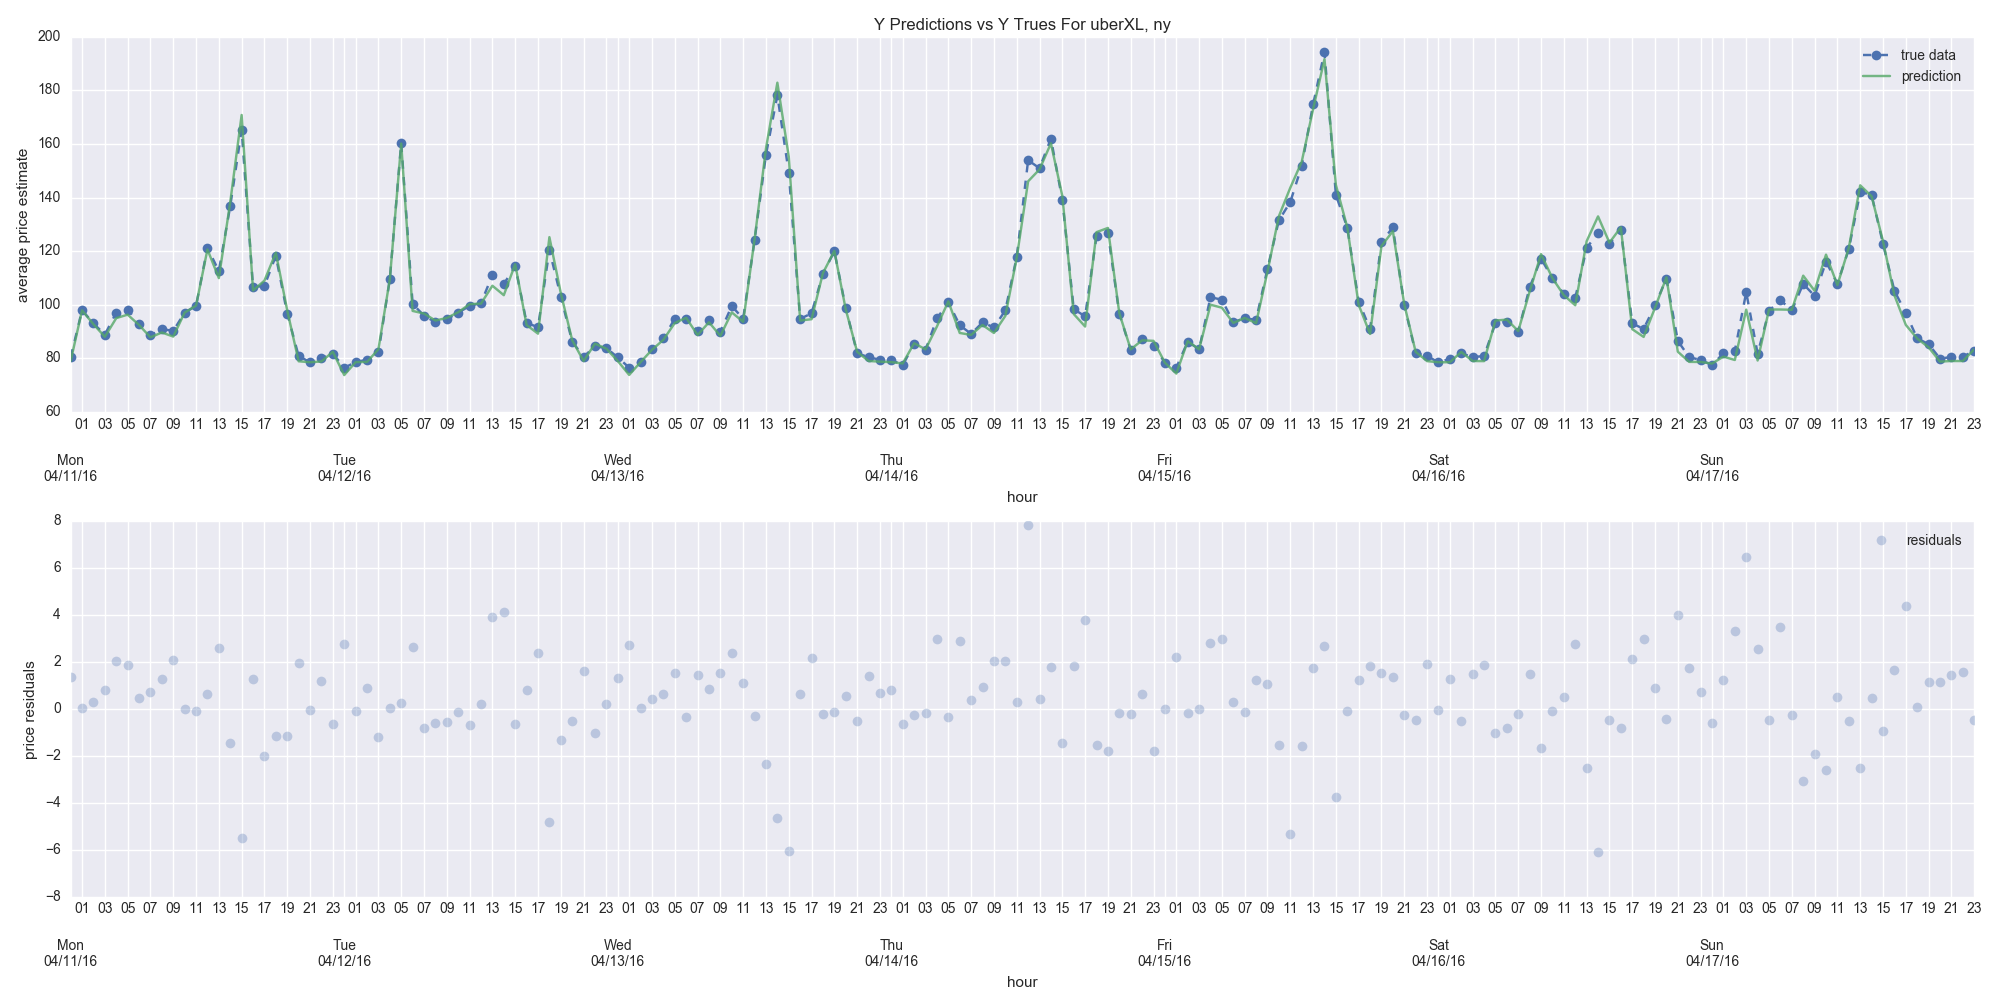
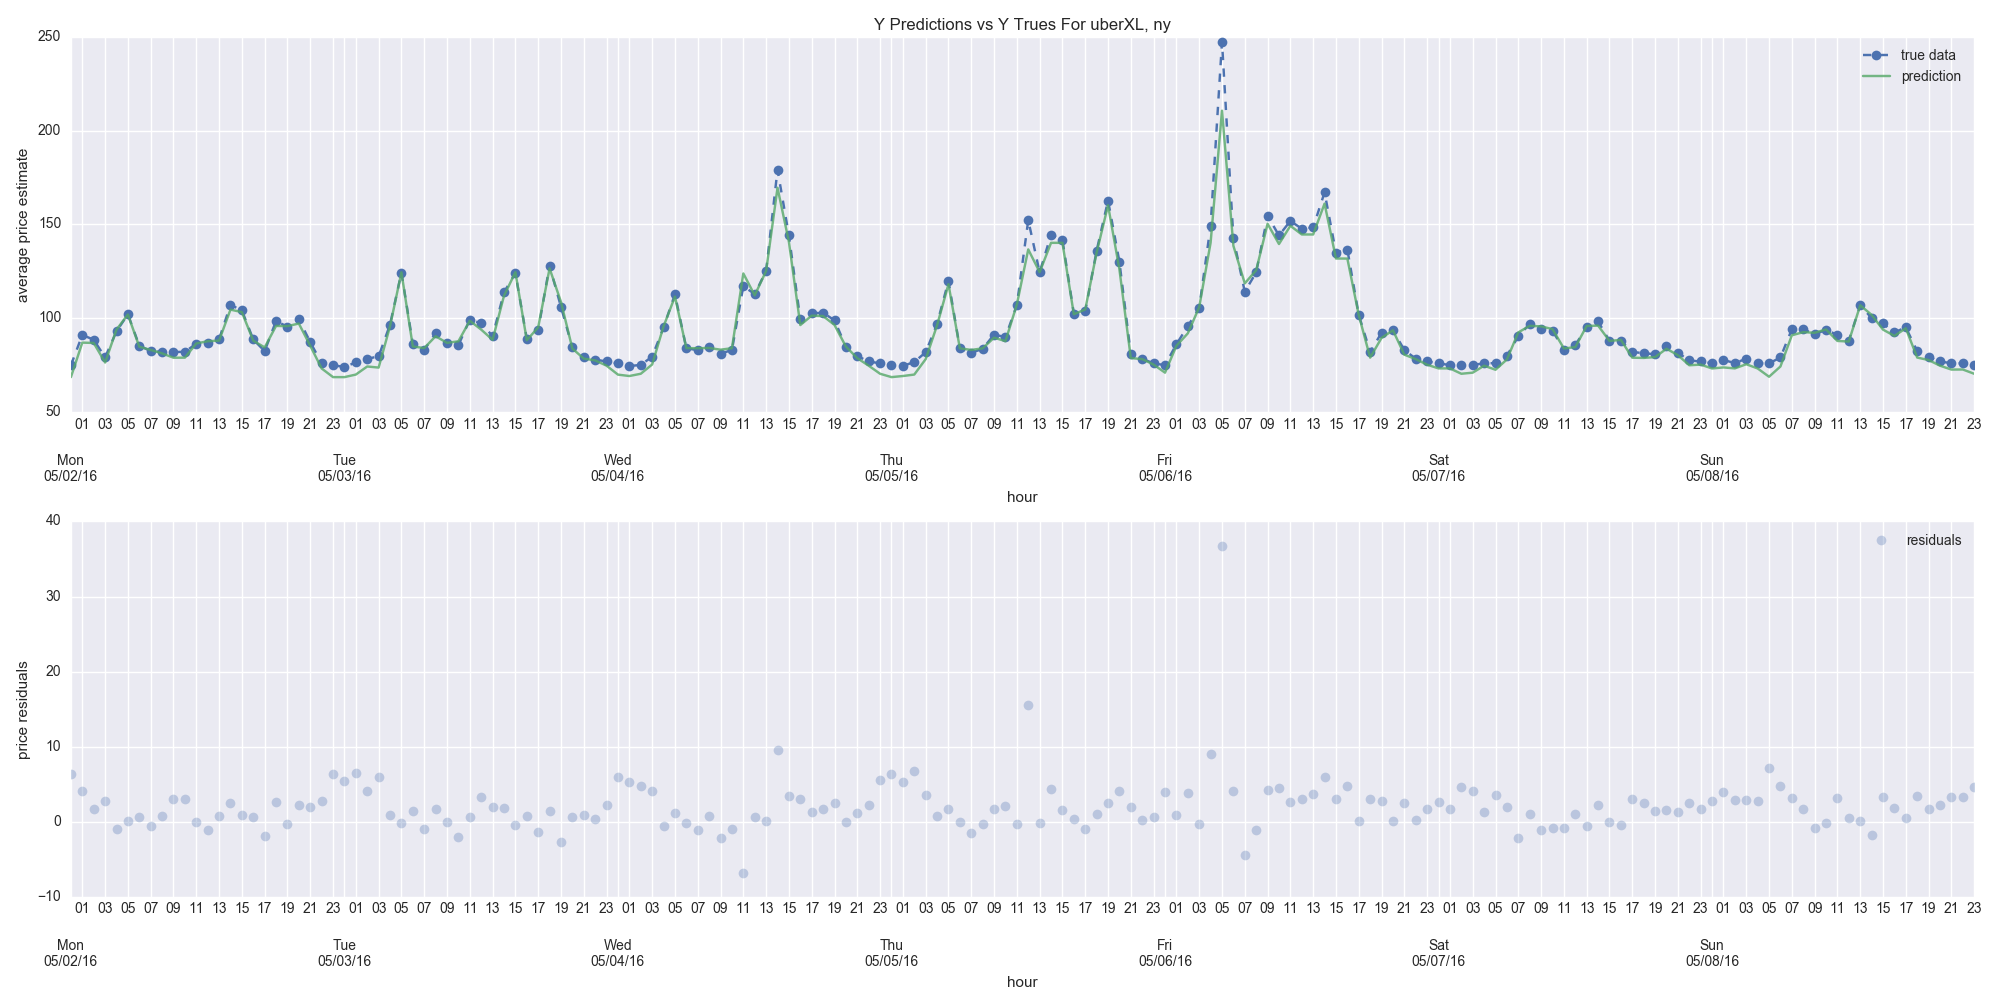
updated forecast models to reflect week of may 09

diff --git a/uber_model.py b/uber_model.py
@@ -14,6 +14,7 @@ from sklearn.linear_model import RidgeCV, LassoCV, ElasticNetCV, Ridge, Lasso, E
 import rpy2.robjects as robjects
 import rpy2.robjects.packages as rpackages
 rforecast = rpackages.importr('forecast')
+import sys
 
 class UberModel(object):
     """
@@ -383,7 +384,7 @@ def plot_prediction_true_res(y_pred):
             plt.close('all')
 
 if __name__ == '__main__':
-    filename = 'data/organized_uber_41816.csv'
+    filename = sys.argv[1]  # 'data/organized_uber_41816.csv'
     ubm = UberModel(filename)
 
     # Subsetting by week -> array([ 7,  8,  9, 10, 11, 12, 13], dtype=int32)
@@ -398,31 +399,33 @@ if __name__ == '__main__':
     y_hold.pop('record_time')
 
     ### GridSearchCV for best parameters for RF
-    # rf_params = {'n_estimators': [10, 100, 200],
-    #                         'criterion': ['mse'],
-    #                         'min_samples_split': [2, 4, 6, 7],
-    #                         'min_samples_leaf': [1, 2],
-    #                         'max_features': ['sqrt',None,'log2']}
-    # gridsearch, best_model, y_pred = ubm.perform_grid_search(X_train, X_hold, y_train.values.reshape(-1), y_hold.values.reshape(-1), RandomForestRegressor(), custom_cv, rf_params)
+    rf_params = {'n_estimators': [10, 100, 200],
+                            'criterion': ['mse'],
+                            'min_samples_split': [2, 4, 6, 7],
+                            'min_samples_leaf': [1, 2],
+                            'max_features': ['sqrt',None,'log2']}
+    gridsearch, best_model, y_pred = ubm.perform_grid_search(X_train, X_hold, y_train.values.reshape(-1), y_hold.values.reshape(-1), RandomForestRegressor(), custom_cv, rf_params)
 
-    # xgb_params = {'max_depth': [2,4,6],
-    #                         'n_estimators': [50,100,200],
-    #                         'gamma': [0,1,2]}
-    # gridsearch, best_model, y_pred = ubm.perform_grid_search(X_train, X_hold, y_train.values.reshape(-1), y_hold.values.reshape(-1), XGBRegressor(), custom_cv, xgb_params)
+    plot_prediction_true_res(y_pred)
+    ubm.pickle_model(best_model, name='model1_w_surgemulti')
+    ubm.make_forecast(best_model, name='model1_w_surgemulti')
+
+    xgb_params = {'max_depth': [2,4,6],
+                            'n_estimators': [50,100,200],
+                            'gamma': [0,1,2]}
+    gridsearch, best_model, y_pred = ubm.perform_grid_search(X_train, X_hold, y_train.values.reshape(-1), y_hold.values.reshape(-1), XGBRegressor(), custom_cv, xgb_params)
+
+    plot_prediction_true_res(y_pred)
+    ubm.pickle_model(best_model, name='xgboost_model')
+    ubm.make_forecast(best_model, name='xgboost_model')
 
     ## Multiple Regression with CV
-    # for regression in [RidgeCV(scoring='mean_squared_error', cv=custom_cv), LassoCV(cv=custom_cv, n_jobs=-1), ElasticNetCV(cv=custom_cv, n_jobs=-1)]:
-    #     ubm.run_linear_models(regression, X_train, y_train.values.reshape(-1), X_hold, y_hold.values.reshape(-1))
+    for regression in [RidgeCV(scoring='mean_squared_error', cv=custom_cv), LassoCV(cv=custom_cv, n_jobs=-1), ElasticNetCV(cv=custom_cv, n_jobs=-1)]:
+        ubm.run_linear_models(regression, X_train, y_train.values.reshape(-1), X_hold, y_hold.values.reshape(-1))
 
     ## ARIMA in R with CV
     ubm.run_arima_cv(X_train, y_train, custom_cv)
     ubm.forecast_with_arima(X_hold, y_hold)
-    #
-    # plot_prediction_true_res(y_pred)
-    #
-    # ubm.pickle_model(best_model, name='xgboost_model')
-    #
-    # ubm.make_forecast(best_model, name='xgboost_model')
 
     ### Cross val score with baseline RF and XGB
     # rf = RandomForestRegressor(n_estimators=10)
